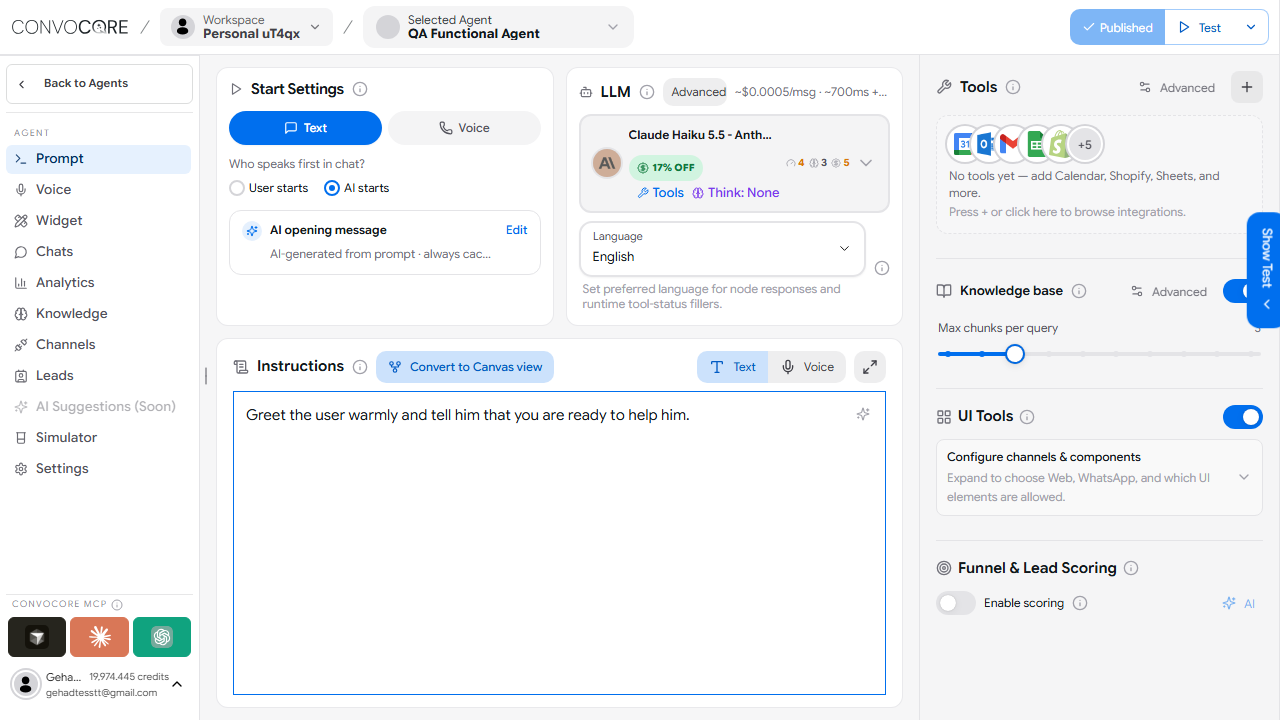
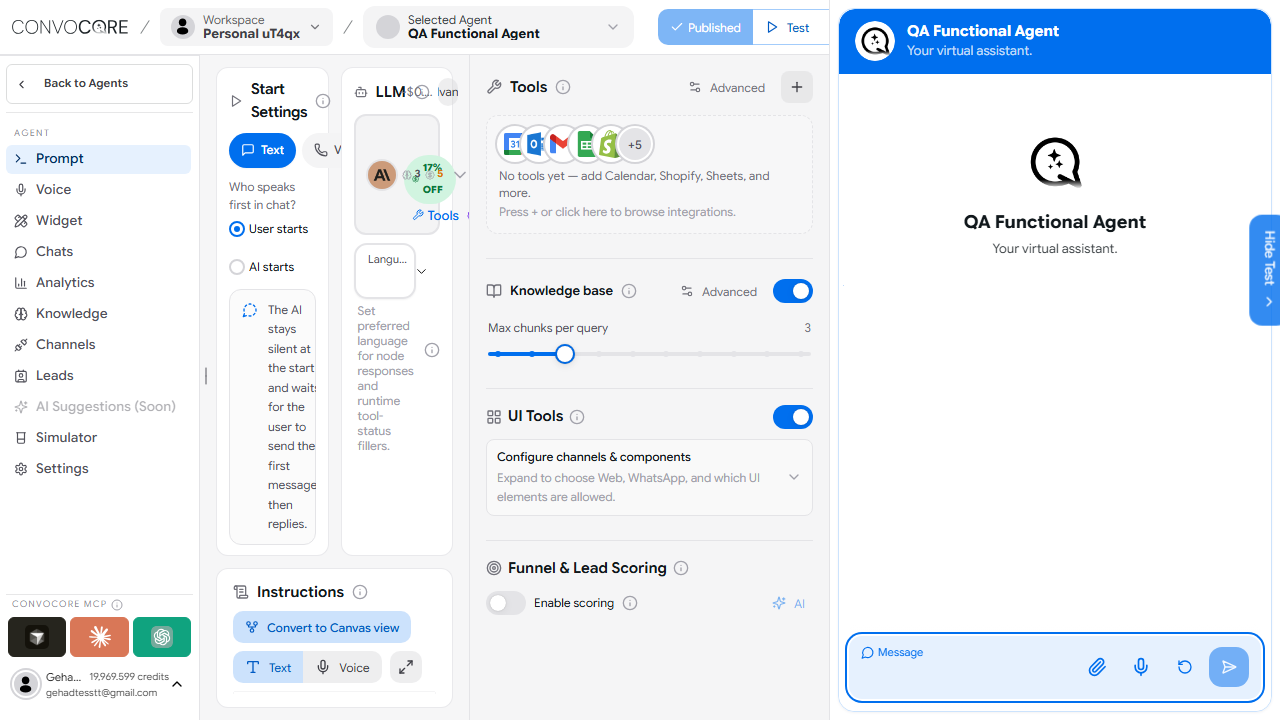
Add Fixed message tests (TC08-TC12) and BUGS.md

diff --git a/tests/prompt-start-settings-text.spec.ts b/tests/prompt-start-settings-text.spec.ts
@@ -61,8 +61,84 @@ async function prepareAgentPage(page: Page) {
   await ensureTextTabSelected(page);
 }
 
+function openingPopup(page: Page) {
+  return page.getByRole('dialog').filter({
+    has: page.getByText('AI opening · Text'),
+  });
+}
+
+function testChat(page: Page) {
+  const panel = page
+    .locator('div')
+    .filter({ has: page.getByText('Your virtual assistant.', { exact: true }) })
+    .filter({ has: page.getByText('Message', { exact: true }) })
+    .filter({ hasNot: page.getByText('Start Settings', { exact: true }) });
+  return panel.filter({ hasNot: panel });
+}
+
+async function readOpeningSummary(page: Page) {
+  const edit = startSettings(page).getByRole('button', { name: 'Edit' });
+  await expect(edit).toBeVisible();
+  return edit.evaluate((button) => {
+    const label = [...button.querySelectorAll('*')].find((el) => {
+      const own = [...el.childNodes]
+        .filter((node) => node.nodeType === Node.TEXT_NODE)
+        .map((node) => node.textContent ?? '')
+        .join('')
+        .replace(/\s+/g, ' ')
+        .trim();
+      return own === 'AI opening message';
+    });
+    const lines = (label?.parentElement?.parentElement?.innerText ?? '')
+      .split('\n')
+      .map((line) => line.trim())
+      .filter((line) => line && line !== 'AI opening message' && line !== 'Edit');
+    return lines[0] ?? '';
+  });
+}
+
+async function saveAndPublish(page: Page) {
+  await page.getByRole('button', { name: 'Save & Publish' }).click();
+  await expect(page.getByText('Published', { exact: true })).toBeVisible();
+
+  const deployHeading = page.getByRole('heading', {
+    name: 'Published — pick a channel to deploy',
+    exact: true,
+  });
+  const shown = await deployHeading
+    .waitFor({ state: 'visible', timeout: 5_000 })
+    .then(() => true)
+    .catch(() => false);
+  if (!shown) return;
+
+  await page.getByRole('button', { name: 'Close', exact: true }).click();
+  await expect(deployHeading).toBeHidden();
+}
+
+async function restoreOpeningMode(page: Page, original: string | undefined) {
+  if (page.isClosed() || !original) return;
+
+  try {
+    const edit = startSettings(page).getByRole('button', { name: 'Edit' });
+    if (!(await edit.isVisible().catch(() => false))) return;
+
+    const current = await readOpeningSummary(page);
+    if (current === original) return;
+
+    const popup = openingPopup(page);
+    await edit.click();
+    await popup.getByText('AI from prompt', { exact: true }).click();
+    await popup.getByRole('button', { name: 'Next' }).click();
+    await popup.getByRole('button', { name: 'Done' }).click();
+    await saveAndPublish(page);
+  } catch (error) {
+    if (page.isClosed()) return;
+    throw error;
+  }
+}
+
 test.describe('Start Settings - Text', () => {
-  test.describe.configure({ mode: 'serial' });
+  test.describe.configure({ mode: 'serial', timeout: 90_000 });
 
   test.beforeEach(async ({ page }) => {
     await page.goto(AGENT_URL, { waitUntil: 'domcontentloaded' });
@@ -93,8 +169,7 @@ test.describe('Start Settings - Text', () => {
       const other = original === 'User starts' ? 'AI starts' : 'User starts';
 
       await startSettings(page).getByRole('radio', { name: other }).check();
-      await page.getByRole('button', { name: 'Save & Publish' }).click();
-      await expect(page.getByText('Published', { exact: true })).toBeVisible();
+      await saveAndPublish(page);
 
       await page.reload();
       await prepareAgentPage(page);
@@ -115,8 +190,7 @@ test.describe('Start Settings - Text', () => {
       if (current === original) return;
 
       await startSettings(page).getByRole('radio', { name: original }).check();
-      await page.getByRole('button', { name: 'Save & Publish' }).click();
-      await expect(page.getByText('Published', { exact: true })).toBeVisible();
+      await saveAndPublish(page);
     }
   });
 
@@ -162,5 +236,102 @@ test.describe('Start Settings - Text', () => {
 
     await expect(page.getByText('AI opening · Text · 1/2')).toBeHidden();
     await expect(page.getByText('AI-generated from prompt')).toBeVisible();
+  });
+
+  test('TC08 - Fixed message: Next opens the message input', async ({ page }) => {
+    await startSettings(page).getByRole('radio', { name: 'AI starts' }).check();
+    await startSettings(page).getByRole('button', { name: 'Edit' }).click();
+    const popup = openingPopup(page);
+    await popup.getByText('Fixed message', { exact: true }).click();
+    await popup.getByRole('button', { name: 'Next' }).click();
+
+    await expect(popup.getByText('AI opening · Text · 2/2')).toBeVisible();
+    await expect(popup.getByText('Write the fixed opening message.')).toBeVisible();
+    await expect(popup.getByRole('textbox')).toBeVisible();
+    await page.keyboard.press('Escape');
+  });
+
+  test('TC09 - Empty message: Done is disabled', async ({ page }) => {
+    await startSettings(page).getByRole('radio', { name: 'AI starts' }).check();
+    await startSettings(page).getByRole('button', { name: 'Edit' }).click();
+    const popup = openingPopup(page);
+    await popup.getByText('Fixed message', { exact: true }).click();
+    await popup.getByRole('button', { name: 'Next' }).click();
+
+    await expect(popup.getByRole('button', { name: 'Done' })).toBeDisabled();
+    await page.keyboard.press('Escape');
+  });
+
+  test('TC10 - Spaces only: Done is disabled', async ({ page }) => {
+    await startSettings(page).getByRole('radio', { name: 'AI starts' }).check();
+    await startSettings(page).getByRole('button', { name: 'Edit' }).click();
+    const popup = openingPopup(page);
+    await popup.getByText('Fixed message', { exact: true }).click();
+    await popup.getByRole('button', { name: 'Next' }).click();
+
+    await popup.getByRole('textbox').fill('     ');
+    await expect(popup.getByRole('button', { name: 'Done' })).toBeDisabled();
+    await page.keyboard.press('Escape');
+  });
+
+  test('TC11 - Fixed message is saved and shown in the summary', async ({ page }) => {
+    test.setTimeout(90_000);
+    const message = `QA fixed ${Date.now()}`;
+    let original: string | undefined;
+
+    try {
+      await startSettings(page).getByRole('radio', { name: 'AI starts' }).check();
+      original = await readOpeningSummary(page);
+
+      await startSettings(page).getByRole('button', { name: 'Edit' }).click();
+      const popup = openingPopup(page);
+      await popup.getByText('Fixed message', { exact: true }).click();
+      await popup.getByRole('button', { name: 'Next' }).click();
+      await popup.getByRole('textbox').fill(message);
+      await expect(popup.getByRole('button', { name: 'Done' })).toBeEnabled();
+      await popup.getByRole('button', { name: 'Done' }).click();
+
+      await expect(startSettings(page).getByText(message, { exact: true })).toBeVisible();
+
+      await saveAndPublish(page);
+
+      await page.reload();
+      await prepareAgentPage(page);
+      await expect(startSettings(page).getByText(message, { exact: true })).toBeVisible();
+    } finally {
+      await restoreOpeningMode(page, original);
+    }
+  });
+
+  test('TC12 - Test chat starts with the exact fixed message', async ({ page }) => {
+    test.setTimeout(90_000);
+    const message = `QA fixed ${Date.now()}`;
+    let original: string | undefined;
+
+    try {
+      await startSettings(page).getByRole('radio', { name: 'AI starts' }).check();
+      original = await readOpeningSummary(page);
+
+      await startSettings(page).getByRole('button', { name: 'Edit' }).click();
+      const popup = openingPopup(page);
+      await popup.getByText('Fixed message', { exact: true }).click();
+      await popup.getByRole('button', { name: 'Next' }).click();
+      await popup.getByRole('textbox').fill(message);
+      await popup.getByRole('button', { name: 'Done' }).click();
+      await saveAndPublish(page);
+
+      await page.getByRole('button', { name: 'Show Test' }).click();
+      // The reload icon has no accessible name: no aria-label, title, or text.
+      await testChat(page).locator('button').filter({
+        has: page.locator('svg.vg-footer-reload--icon'),
+      }).click();
+      await page.getByRole('button', { name: 'Refresh the Conversation' }).click();
+
+      await expect(testChat(page).getByText(message, { exact: true })).toBeVisible({
+        timeout: 30_000,
+      });
+    } finally {
+      await restoreOpeningMode(page, original);
+    }
   });
 });
